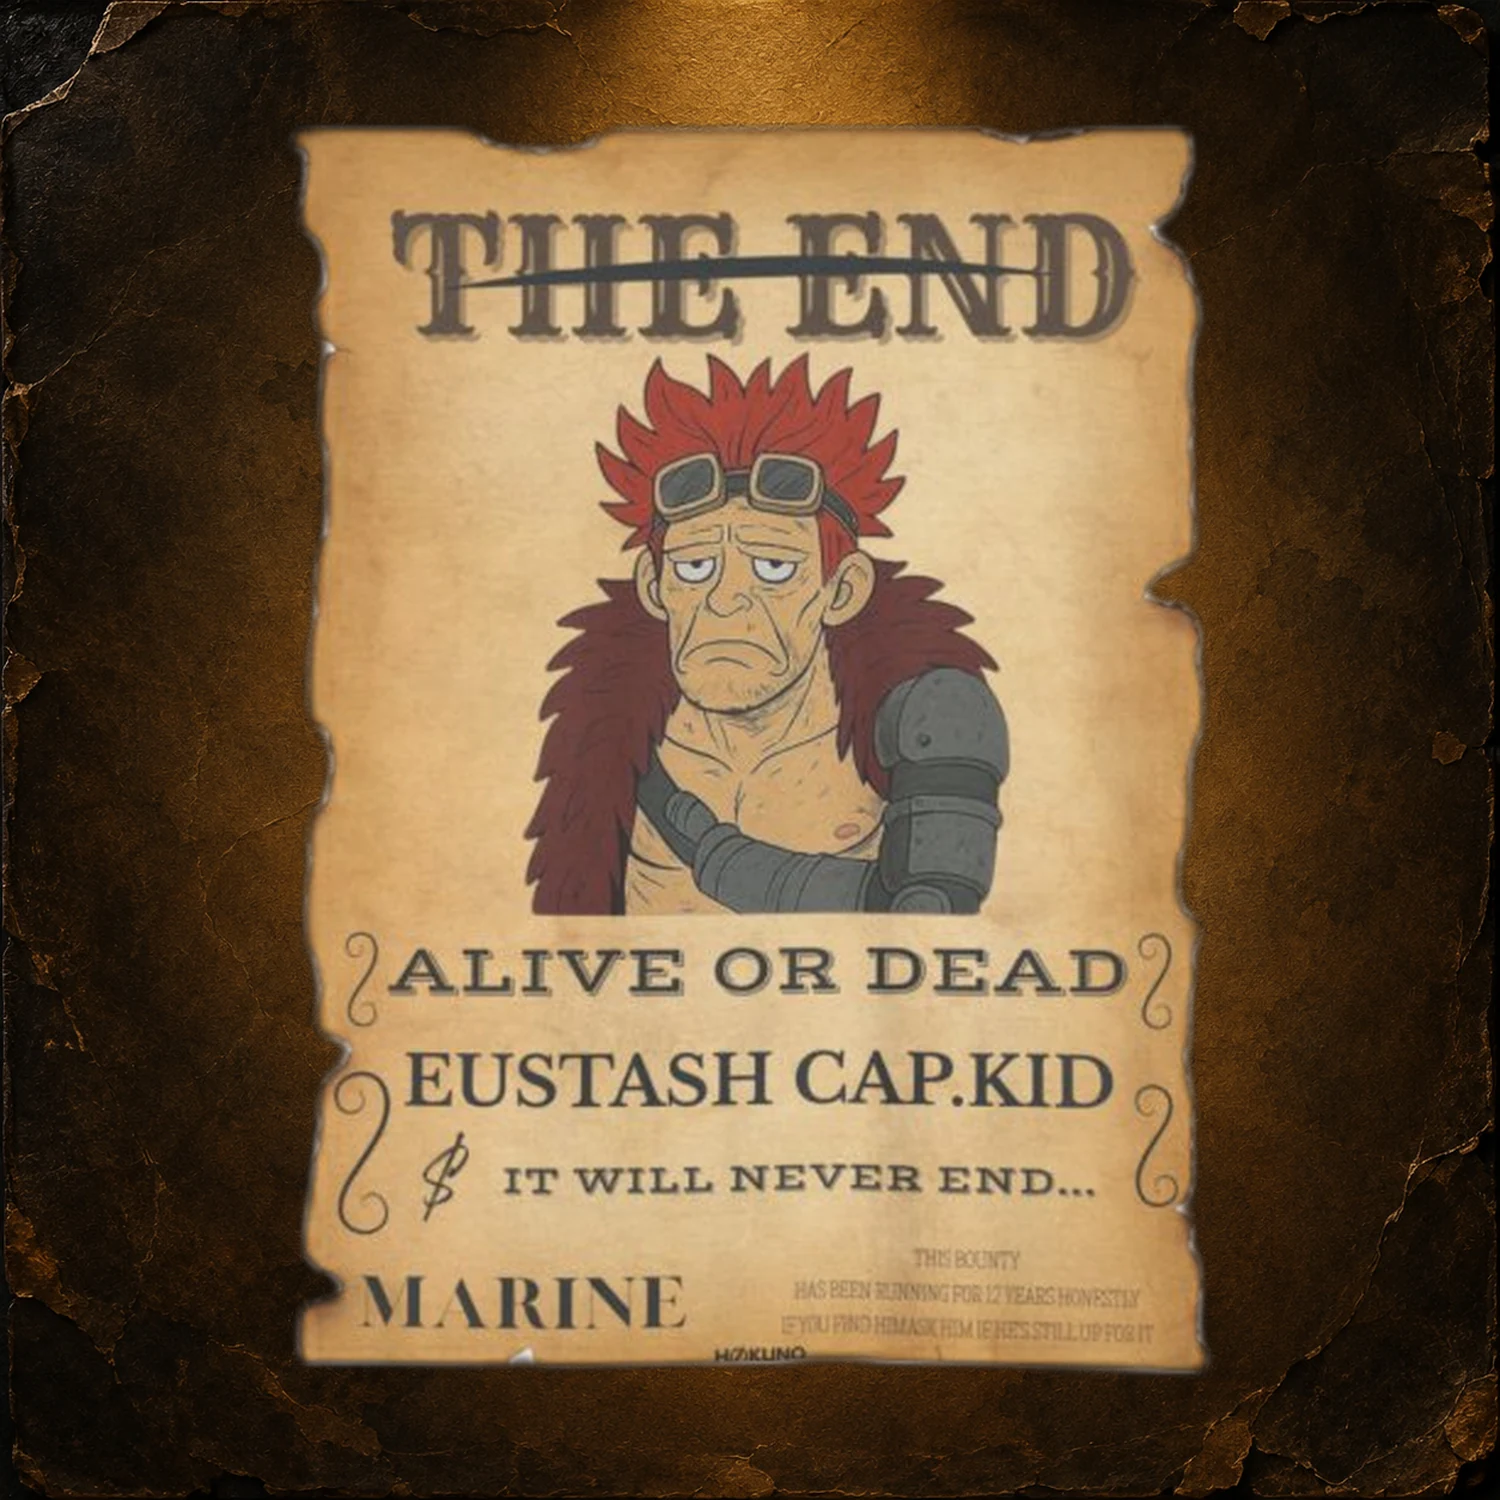
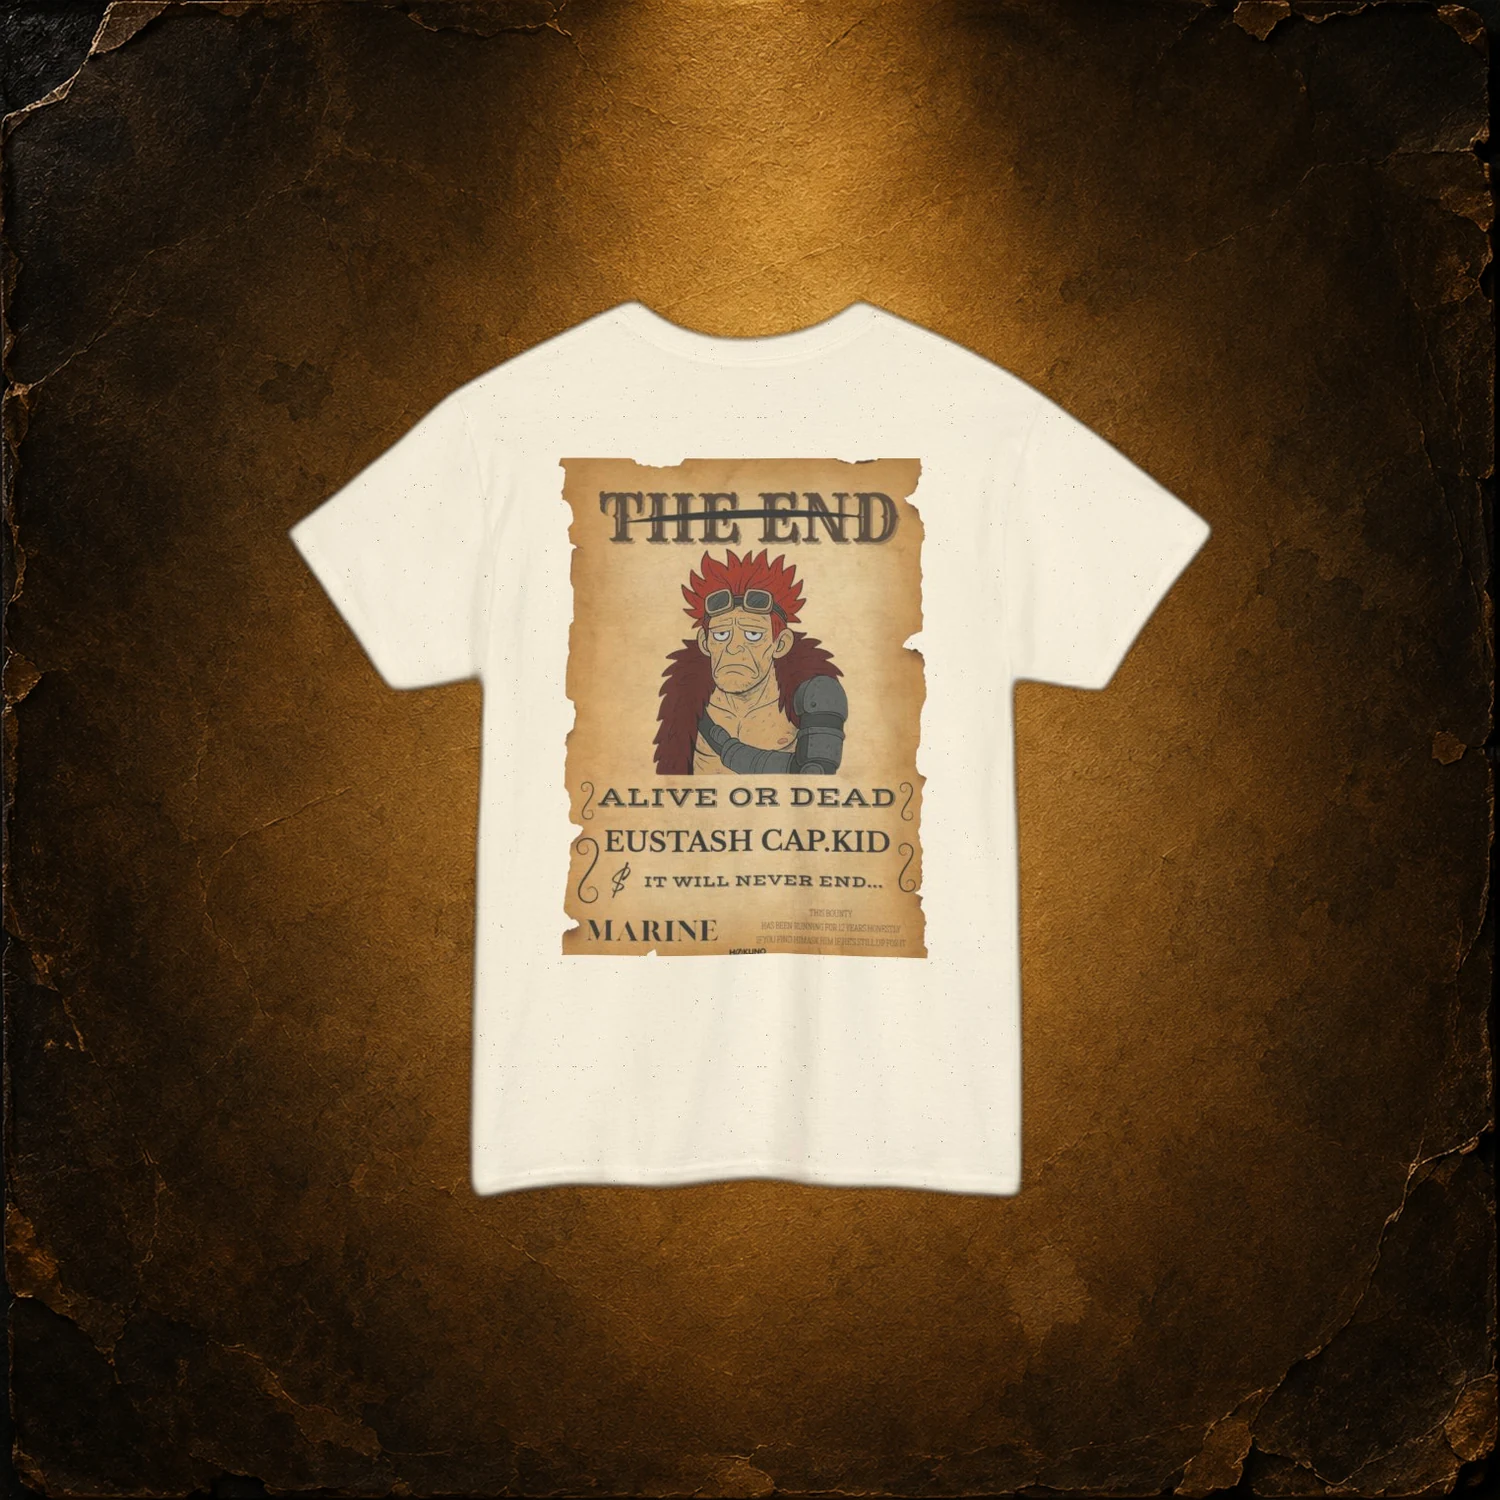
fix(theme): regen 15 FR Wanted light mockups (white→Natural variant)
The previous fix in 5f7e624 regenerated the 15 FR Wanted light tees from
the White-color back-2 mockup. After rembg, the white t-shirt + white BG
were both removed, leaving only the brown wanted poster pasted onto
bg-wanted.png (visually: bare poster, no t-shirt).

Re-ran via scripts/mockup-pipeline/12_refix_fr_wanted_lights.py, which
delegates to 07_fix_cream_and_back2.regenerate() and uses pick_light_color
to select the Natural variant — rembg now preserves the cream garment.

Scope: 15 light FR products (Bartolomiou Kouma 18/46 → Gayko Mauria 32/46).
The 15 dark variants from the same commit were verified visually OK and
left untouched. character-map.json is unchanged (FR handles already point
to their own files).

diff --git a/scripts/mockup-pipeline/12_refix_fr_wanted_lights.py b/scripts/mockup-pipeline/12_refix_fr_wanted_lights.py
@@ -1,0 +1,134 @@
+"""Fix 12 — Re-regenerate the 15 FR Wanted LIGHT t-shirts whose mockups in
+commit 5f7e624 came out as bare wanted posters (white t-shirt + rembg killed
+the garment, leaving only the brown poster on bg-wanted).
+
+Re-uses the regenerate() pipeline from 07_fix_cream_and_back2 — i.e.:
+  - pick_light_color → Natural variant
+  - pick_source_mockup_tshirt → back-2 (camera_label=back-2, angle 102006)
+  - rembg detourage → compose on bg-wanted.png
+
+Scope: only the 15 light FR tees. Dark variants from the same commit were
+verified OK and are skipped.
+
+Usage:
+    python scripts/mockup-pipeline/12_refix_fr_wanted_lights.py
+    python scripts/mockup-pipeline/12_refix_fr_wanted_lights.py --dry-run
+"""
+from __future__ import annotations
+
+import datetime
+import json
+import sys
+import time
+from pathlib import Path
+
+sys.path.insert(0, str(Path(__file__).resolve().parent))
+
+import config  # noqa: E402
+import printify_client  # noqa: E402
+
+import importlib.util  # noqa: E402
+_spec = importlib.util.spec_from_file_location(
+    "fix07",
+    Path(__file__).resolve().parent / "07_fix_cream_and_back2.py",
+)
+fix07 = importlib.util.module_from_spec(_spec)  # type: ignore[arg-type]
+_spec.loader.exec_module(fix07)  # type: ignore[union-attr]
+
+
+TARGET_HANDLES = {
+    "t-shirt-bartolomiou-kouma-wanted-18-46",
+    "t-shirt-boha-ancock-wanted-23-46",
+    "t-shirt-crocockdile-wanted-27-46",
+    "t-shirt-dracule-miok-wanted-28-46",
+    "t-shirt-eustash-cap-kid-wanted-22-46",
+    "t-shirt-gayko-mauria-wanted-32-46",
+    "t-shirt-harllong-wanted-20-46",
+    "t-shirt-iamato-wanted-24-46",
+    "t-shirt-iwankoff-wanted-19-46",
+    "t-shirt-kobi-wanted-25-46",
+    "t-shirt-momonosucke-wanted-21-46",
+    "t-shirt-monki-di-dragone-wanted-31-46",
+    "t-shirt-portgas-di-ase-wanted-26-46",
+    "t-shirt-sabot-wanted-29-46",
+    "t-shirt-trafalgar-di-low-wanted-30-46",
+}
+
+
+def run() -> int:
+    dry_run = "--dry-run" in sys.argv
+
+    config.ensure_dirs()
+    config.require_printify_token()
+
+    print("→ Fetching all Printify products…")
+    products = printify_client.list_all_products()
+    print(f"  {len(products)} products fetched")
+
+    targets: list[dict] = []
+    for p in products:
+        handle = fix07.normalize_handle((p.get("external") or {}).get("handle"))
+        if handle in TARGET_HANDLES:
+            targets.append(p)
+
+    missing = TARGET_HANDLES - {
+        fix07.normalize_handle((p.get("external") or {}).get("handle"))
+        for p in targets
+    }
+    if missing:
+        print(f"\n⚠  {len(missing)} target handle(s) not found on Printify:")
+        for h in sorted(missing):
+            print(f"   - {h}")
+
+    print(f"\n=== Targets: {len(targets)} / {len(TARGET_HANDLES)} ===")
+    for p in targets:
+        h = fix07.normalize_handle((p.get("external") or {}).get("handle"))
+        print(f"  - {p['id']}  {h}")
+
+    if dry_run:
+        print("\n(dry-run) Nothing regenerated. Exit.")
+        return 0
+
+    started = datetime.datetime.now()
+    logs: list[dict] = []
+    for i, p in enumerate(targets, 1):
+        log = fix07.regenerate(p)
+        tag = "ERROR" if log["error"] else "OK"
+        col = log.get("collection", "?")
+        title = (log.get("title") or "")[:46]
+        dur = log.get("duration_s")
+        dur_s = f"{dur:>5.2f}s" if dur is not None else "  -   "
+        light_tag = "LIGHT" if log["is_light"] else "DARK "
+        strat_short = (log["strategy"] or "?")[:14]
+        cam = log.get("mockup_camera_label") or log.get("mockup_position_used") or "?"
+        color = log.get("color_picked") or "-"
+        print(
+            f"  [{i:>2}/{len(targets)}] {dur_s} [{col:<8}] {light_tag} "
+            f"{log['type']:<7} cam={cam:<8} col={color:<10} {strat_short:<16}  "
+            f"{title:<48}  → {tag}"
+            + (f": {log['error']}" if log["error"] else "")
+        )
+        (config.LOG_DIR / f"fix12-{log['product_id']}.json").write_text(
+            json.dumps(log, indent=2, ensure_ascii=False)
+        )
+        logs.append(log)
+        time.sleep(config.PRINTIFY_DELAY_S)
+
+    elapsed = (datetime.datetime.now() - started).total_seconds()
+    successes = [l for l in logs if not l["error"]]
+    errors = [l for l in logs if l["error"]]
+
+    print("\n" + "=" * 70)
+    print("🛑 FIX 12 TERMINÉ — assets régénérés, theme NON pushé")
+    print("=" * 70)
+    print(f"Durée    : {int(elapsed//60)}m{int(elapsed%60)}s")
+    print(f"OK / Err : {len(successes)} / {len(errors)}")
+    if errors:
+        for l in errors:
+            print(f"  ERROR  {l['product_id']}  {l['title']}  → {l['error']}")
+    print("=" * 70)
+    return 0
+
+
+if __name__ == "__main__":
+    sys.exit(run())
